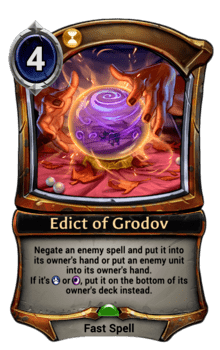
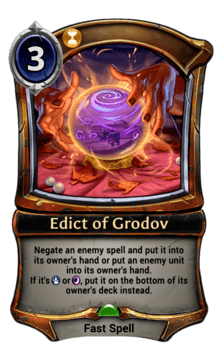
deploy: 2720f502a1592c7f2a43f848064906293049e11c

diff --git a/epc/index.html b/epc/index.html
@@ -1184,7 +1184,7 @@ Set2 #176;; 2FT; Purify;
 Set2 #177; 2FT; 4FT; Brilliant Discovery;
 Set2 #178;; 4FT; Clever Stranger;
 Set2 #179;; 4FFT; Diogo Málaga;
-Set2 #180;; 5FT; Talir's Choice;
+Set2 #180;; 4FT; Talir's Choice;
 Set2 #181;; 5FT; Shatterglass Mage;
 Set2 #182;; 5FT; Workshop Forge;
 Set2 #183;; 7FFFTTT; Heart of the Vault;
@@ -1224,7 +1224,7 @@ Set2 #216; 1JP;; Hooru Banner; power, conditional
 Set2 #217;; 2JP; Bring Down;
 Set2 #218;; 2JP; Kothon, the Far-Watcher;
 Set2 #219;; 3JPP; Aerialist Trainer;
-Set2 #220;; 3JP; Eilyn's Choice;
+Set2 #220;; 2JP; Eilyn's Choice;
 Set2 #221;; 3JP; Spellshield Architect;
 Set2 #222;; 4JJPP; Master's Lesson;
 Set2 #223;; 4JJPP; Shelterwing Rider;
@@ -1464,7 +1464,7 @@ Set3 #174;; 3P; Snowfort;
 Set3 #175;; 3PP; Sunken Tower;
 Set3 #176;; 3P; Voracious Fosora;
 Set3 #177;; 3P; Wild Rider;
-Set3 #178;; 3PPP; Yeti Furflinger;
+Set3 #178;; 3PP; Yeti Furflinger;
 Set3 #179;; 4P; Clutchmate;
 Set3 #180;; 4P; Cutbrush Cartographer;
 Set3 #181;; 4P; Freewing Glider;
@@ -1561,7 +1561,7 @@ Set3 #271;; 4TS; Duskwalker;
 Set3 #272;; 5TTSS; Agile Deathjaw;
 Set3 #273;; 3JS; Inquisitor's Halberd;
 Set3 #274;; 3JS; Rooftop Vigilante;
-Set3 #275;; 5FFSS; Vicious Highwayman;
+Set3 #275;; 4FFSS; Vicious Highwayman;
 Set3 #276;; 3PS; Skywalk Enforcer;
 Set3 #277;; 4PPSS; Rindra, the Duskblade;
 Set3 #278;; 6FFTTPP; Curiox, Insatiable Seeker;
@@ -1851,7 +1851,7 @@ Set4 #248;; 1TJ; Alessi, Combrei Archmage;
 Set4 #249;; 4TTJJ; Sword of Unity;
 Set4 #250;; 7TJ; Siraf's Choice;
 Set4 #251;; 2TP; Derry Cathain, Ripclaw Rider;
-Set4 #252;; 4TP; Cirso's Choice;
+Set4 #252;; 3TP; Cirso's Choice;
 Set4 #253; 1JP;; Crest of Order; power, depleted, crest
 Set4 #254;; 2JP; Linebreaker's Shield;
 Set4 #255;; 4JP; Long Live the Queen;
@@ -2515,7 +2515,7 @@ Set7 #42;; 2T; Snapping Hydrangea;
 Set7 #43;; 2T; Spiketail Qirin;
 Set7 #44;; 2T; Unmake;
 Set7 #45;; 3T; Eager Offering;
-Set7 #46;; 4T; Edict of Grodov;
+Set7 #46;; 3T; Edict of Grodov;
 Set7 #47;; 3TT; Gnash, Unrelenting;
 Set7 #48;; 3T; Proselytize;
 Set7 #49;; 3T; Swaying Sea Qirin;
@@ -2712,7 +2712,7 @@ Set1007 #19;; 1JS; Shattered Hopes;
 Set1007 #20;; 2PS; Tome of Horrors;
 Set1007 #21;; 1; Nightmare Prism;
 
-Set8 #1;; 1F; Blazing Salvo;
+Set8 #1;; 2F; Blazing Salvo;
 Set8 #2;; 1F; Furyblade;
 Set8 #3;; 1F; Kazuo, Melee Virtuoso;
 Set8 #4;; 1F; Kindling Carver;
@@ -2800,7 +2800,7 @@ Set8 #85;; 6JJ; Camoni, Dusk Rider;
 Set8 #86;; 6JJ; Mithril Paladin;
 Set8 #87;; 6J; Restrained Action;
 Set8 #88;; 1P; Nesting Raven;
-Set8 #89;; 1P; Transpose;
+Set8 #89;; 2P; Transpose;
 Set8 #90;; 2P; Bookclub Yeti;
 Set8 #91;; 1P; Formbend;
 Set8 #92;; 2P; Provoke the Dragons;
@@ -2866,7 +2866,7 @@ Set8 #151;; 5FFJJ; Hammer of Glory;
 Set8 #152;; 2FP; Spellbound Vestige;
 Set8 #153;; 4FP; Acedonis, Untainted;
 Set8 #154;; 4FP; Strange Tracker;
-Set8 #155;; 3FS; Shrine to Karvet;
+Set8 #155;; 4FS; Shrine to Karvet;
 Set8 #156;; 4FS; Strange Burglar;
 Set8 #157;; 6FS; Premature Burial;
 Set8 #158;; 2TJ; Hammer of Unity;
@@ -3228,7 +3228,7 @@ Set1097 #9;; 0SS; Fall of House Roa;
 Set1097 #10;; 5SS; Xumuc Shaman;
 Set1097 #11;; 5FT; Okessa Málaga;
 Set1097 #12;; 3FJ; Glaive of the Chosen;
-Set1097 #13;; 3FP; Sling of the Chi;
+Set1097 #13;; 4FP; Sling of the Chi;
 Set1097 #14;; 3FS; D'Angolo Arson;
 Set1097 #15;; 1TJ; Broti, Bastion's Hope;
 Set1097 #16;; 4TP; Fertile Soil;
@@ -3624,7 +3624,7 @@ Set11 #120;; 5P; Gnashing Displacer;
 Set11 #121;; 5P; Grizzled Guard;
 Set11 #122;; 5P; Soaring Pennant;
 Set11 #123;; 7PP; Crackling Bauble;
-Set11 #124;; 7PP; Davia, Azurebreaker;
+Set11 #124;; 6PP; Davia, Azurebreaker;
 Set11 #125; 1S;; Rune of Illusion; power, conditional
 Set11 #126; 1S;; Shadow Sketch; power, conditional
 Set11 #127;; 1S; Afflictor;
@@ -3647,7 +3647,7 @@ Set11 #143;; 4S; Unchecked Upgrader;
 Set11 #144;; 4SS; Waxing Moon;
 Set11 #145;; 4SSSS; Xumuc Poison;
 Set11 #146;; 5SS; Ambitious Mandevilla;
-Set11 #147;; 5SS; D'Angolo Might;
+Set11 #147;; 6SS; D'Angolo Might;
 Set11 #148;; 3SS; Elding of the Final Hour;
 Set11 #149;; 5SS; Hypnotic Valkyrie;
 Set11 #150;; 5S; Muck Devourer;
@@ -3684,7 +3684,7 @@ Set11 #180;; 2TP; Ring of Glamour;
 Set11 #181;; 3TP; Launching Asri;
 Set11 #182;; 5TP; Entratius, Beckoning;
 Set11 #183; 1TS; 1; Xenan Blueprints;
-Set11 #184;; 2TS; Aymar, Dark Summoner;
+Set11 #184;; 3TS; Aymar, Dark Summoner;
 Set11 #185;; 3TS; Lurking Feeder;
 Set11 #186;; 4TS; Clinging Scavenger;
 Set11 #187; 1JP; 1; Hooru Blueprints;
@@ -3710,6 +3710,7 @@ Set11 #205;; 3; Undercover Enforcer;
 Set11 #414;; 3T; Javan, the Steel Crest;
 Set11 #415;; 3F; Gemblazer Cannon;
 Set11 #415; 1; 4TS; A New Beginning;
+Set11 #416;; 3SS; Vara's Authority;
 
 Set1115 #1;; 2F; League Explorer;
 Set1115 #2;; 3F; Awakened Arsonist;
